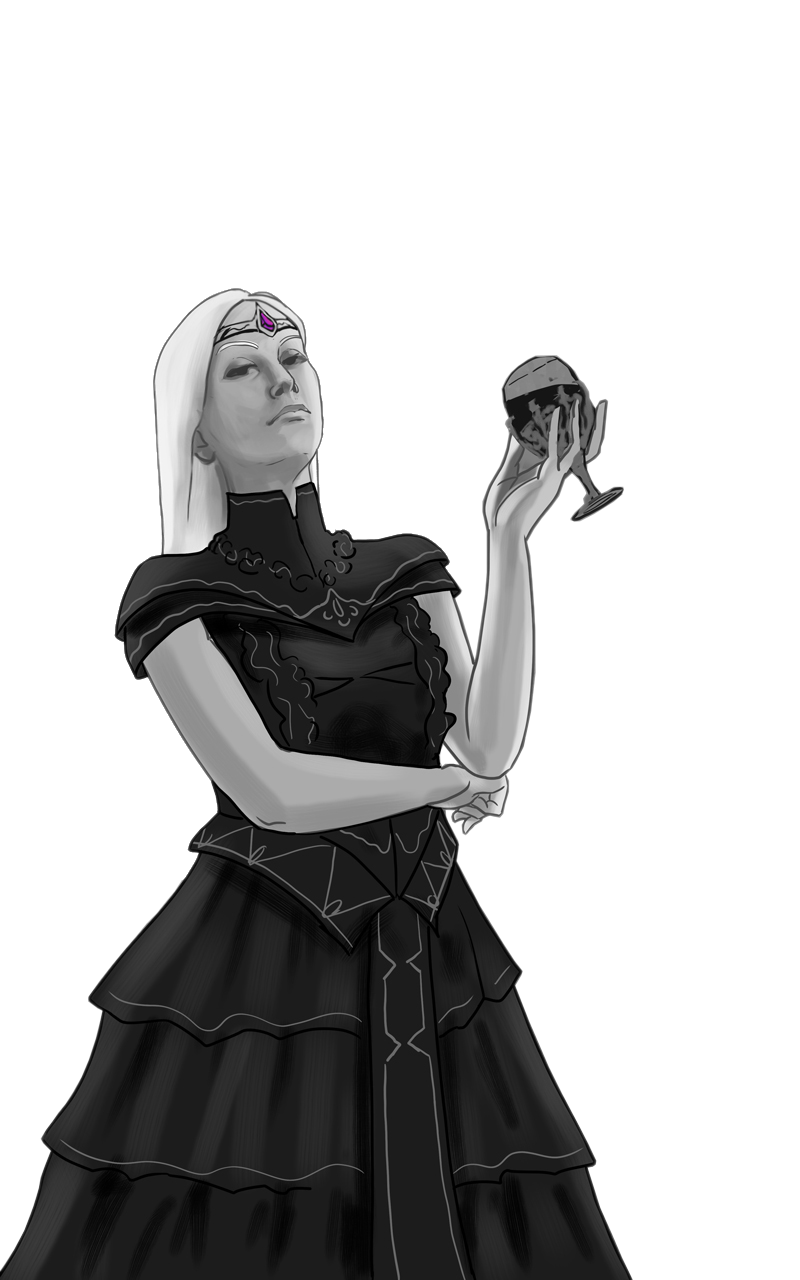
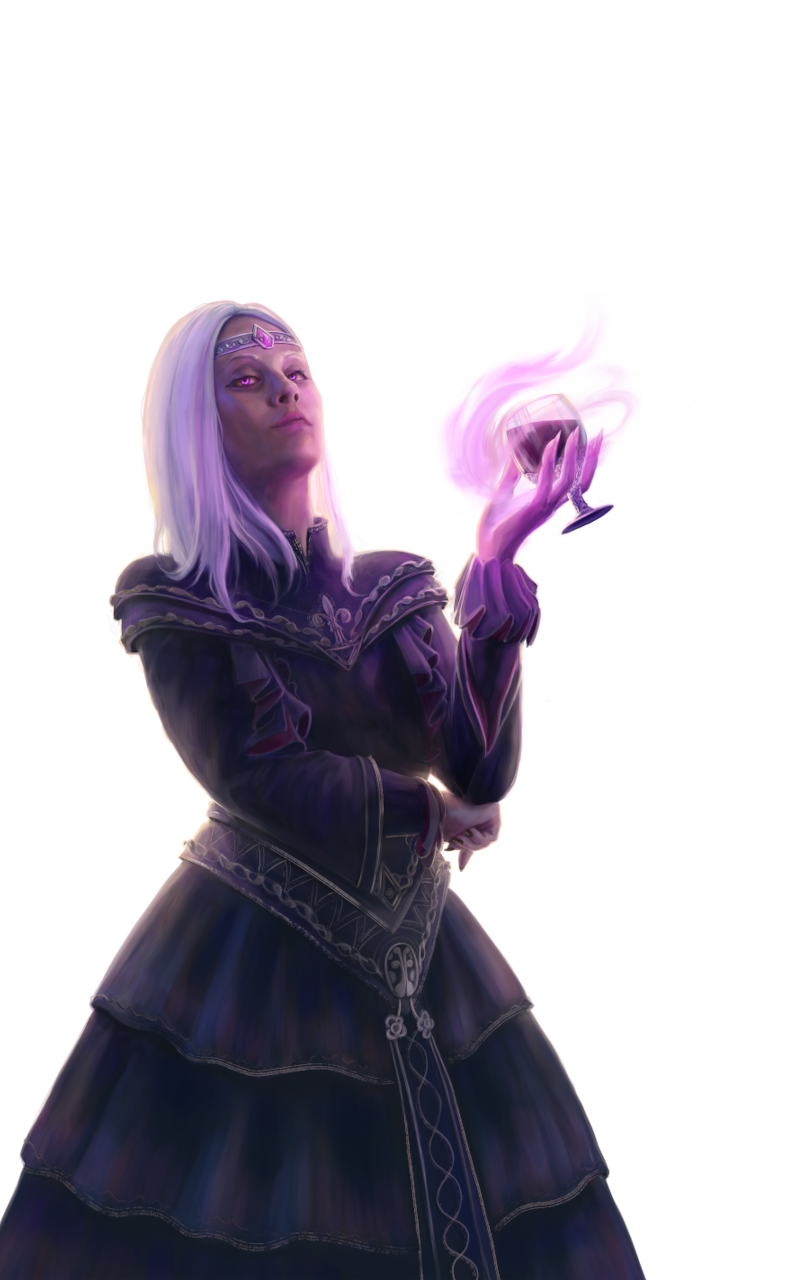
New style

Changed region(s): [[0.0, 0.2188, 0.8125, 1.0]]

diff --git a/src/App.jsx b/src/App.jsx
@@ -1,4 +1,8 @@
 import ladyImage from '/lady.png';
+import smokeL from '/smoke_l.png';
+import smokeR from '/smoke_r.png';
+import corner from '/corner.svg';
+import side from '/side.svg';
 import { NavLink } from "react-router-dom";
 import { createContext, useState } from "react";
 
@@ -12,47 +16,54 @@ function App({children}) {
     return (
         <ThemeContext.Provider value={{secondaryColor, border}}>
             <div className="md:fixed w-screen h-screen md:overflow-hidden">
-                <div className="hidden md:block absolute top-1 left-1 p-2 z-20 text-xs text-center">
-                    <div className="inline-block px-1 text-dark-green" onClick={() => setSecondaryColor('dark-green')}>green</div>
-                    <div className="inline-block px-1 text-dark-blue" onClick={() => setSecondaryColor('dark-blue')}>blue</div>
-                    <div className="inline-block px-1 text-brown" onClick={() => setSecondaryColor('brown')}>brown</div>
-                    <div className="inline-block px-1 text-pink" onClick={() => setSecondaryColor('pink')}>pink</div>
-                    <div className="inline-block px-1 text-dark-silver" onClick={() => setSecondaryColor('dark-silver')}>grey</div>
-                    <div className={`text-silver decoration-3 ${border ? '' : 'line-through'}`} onClick={() => setBorder(!border)}>border</div>
+                <div className="fixed -z-10 bottom-0 left-0 w-screen h-screen bg-noise bg-cover" />
+                <div className="hidden md:block fixed z-10 left-0 bottom-0 opacity-80 animate-float-left pointer-events-none">
+                    <img src={smokeL} />
                 </div>
-                <div className="fixed -z-10 bottom-0 left-0 w-screen h-screen bg-noise bg-cover opacity-70" />
-                <div className="fixed -z-10 bottom-0 left-0 w-screen h-screen bg-gradient bg-cover opacity-70" />
+                <div className="hidden md:block fixed z-10 right-0 bottom-0 opacity-80 animate-float-right pointer-events-none">
+                    <img src={smokeR} />
+                </div>
+                <div className="fixed z-15 bottom-0 left-0 w-screen h-screen bg-gradient bg-cover pointer-events-none       " />
                 <div className="relative px-4 py-16 sm:p-8 md:p-12 lg:p-20 lg:pb-12 h-full mx-auto lg:max-w-[1600px] flex">
                     <div className="hidden md:block md:w-2/5 h-full animate-fade">
                         <div className="absolute max-w-[50vw] max-h-[100vh] bottom-0 md:-left-8 lg:-left-16 brightness-0 blur-xl opacity-30">
                             <img src={ladyImage} />
                         </div>
-                        <div className="absolute max-w-[50vw] max-h-[100vh] bottom-0 md:-left-2 lg:-left-4 grayscale hover:grayscale-0">
+                        <div className="absolute max-w-[50vw] max-h-[100vh] bottom-0 md:-left-2 lg:-left-4">
                             <img src={ladyImage} />
                         </div>
                     </div>
-                    <div className="md:w-3/5 animate-fade flex flex-col">
-                        <div className={`relative inline-block bg-dark-grey text-center text-silver font-serif
+                    <div className="md:w-3/5 animate-fade flex flex-col z-20">
+                        <div className={`relative inline-block bg-dark-grey text-center text-silver font-serif m-6
                                         p-4 sm:p-12 md:p-8 lg:p-12 md:max-h-[70vh] shadow-lg shadow-dark-grey/20
-                                        ${border?`border-2 border-${secondaryColor}`:''}`}>
+                                        ${border?`border-2 border-silver`:''}`}>
                             {border && (
-                                <div className={`absolute -top-2 left-1/2 -ml-2 rotate-45 w-4 h-4 bg-${secondaryColor}`}>&nbsp;</div>
+                                <div className={`absolute -top-2 left-1/2 -ml-2 rotate-45 w-4 h-4 bg-silver`}>&nbsp;</div>
                             )}
+                            <div className="absolute -top-6 -left-6 corner-tl w-6 h-6" />
+                            <div className="absolute -top-6 -right-6 corner-tr w-6 h-6" />
+                            <div className="absolute -bottom-6 -left-6 corner-bl w-6 h-6" />
+                            <div className="absolute -bottom-6 -right-6 corner-br w-6 h-6" />
+                            <div className="absolute top-0 -left-6 bg-left w-6 h-full" />
+                            <div className="absolute -top-6 left-0 bg-top w-full h-6" />
+                            <div className="absolute top-0 -right-6 bg-right w-6 h-full" />
+                            <div className="absolute -bottom-6 left-0 bg-bottom w-full h-6" />
+
                             <div className="pb-2 lg:pb-2 text-lg">
                                 <div>
-                                    <div className={`inline-block text-${secondaryColor} px-2 lg:px-5 leading-5 align-text-bottom rotate-180`}>&#10170;</div>
+                                    <div className={`inline-block px-2 lg:px-5 leading-5 align-text-bottom rotate-180`}>&#10170;</div>
                                     <NavLink to="/" className={({ isActive}) => isActive ? `underline decoration-2 2xl:decoration-3 decoration-${secondaryColor}` : ""}>
                                         Home
                                     </NavLink >
-                                    <div className={`inline-block text-${secondaryColor} px-2 lg:px-5`}>&#9866;</div>
+                                    <div className={`inline-block px-2 lg:px-5`}>&#9866;</div>
                                     <NavLink to="/about" className={({ isActive}) => isActive ? `underline decoration-2 2xl:decoration-3 decoration-${secondaryColor}` : ""}>
                                         About
                                     </NavLink >
-                                    <div className={`inline-block text-${secondaryColor} px-2 lg:px-5`}>&#9866;</div>
+                                    <div className={`inline-block px-2 lg:px-5`}>&#9866;</div>
                                     <NavLink to="/contact" className={({ isActive}) => isActive ? `underline decoration-2 2xl:decoration-3 decoration-${secondaryColor}` : ""}>
                                         Contact
                                     </NavLink >
-                                    <div className={`inline-block text-${secondaryColor} px-2 lg:px-5 leading-5 align-text-bottom`}>&#10170;</div>
+                                    <div className={`inline-block px-2 lg:px-5 leading-5 align-text-bottom`}>&#10170;</div>
                                 </div>
                             </div>
                             <div className="h-full overflow-y-auto">

diff --git a/src/Home.jsx b/src/Home.jsx
@@ -1,36 +1,45 @@
 import { useContext } from "react";
 import { ThemeContext } from "./App.jsx";
+import separator from '/separator_1.svg';
+
 
 export default function Home() {
     const {secondaryColor} = useContext(ThemeContext);
 
     return (<>
-        <p className={`font-cursive text-2xl lg:text-3xl 2xl:text-4xl 2xl:pb-4
-                                        underline decoration-2 2xl:decoration-3 decoration-${secondaryColor}`}>
+        <p className={`font-cursive text-2xl lg:text-3xl 2xl:text-4xl 2xl:pb-4`}>
             &nbsp;<span
-            className={`text-${secondaryColor} text-3xl lg:text-4xl 2xl:text-5xl translate-y-1 px-0.5 inline-block`}>C</span>harles
+            className={`text-3xl lg:text-4xl 2xl:text-5xl translate-y-1 px-0.5 inline-block`}>C</span>harles
             R. <span
-            className={`text-${secondaryColor} text-3xl lg:text-4xl 2xl:text-5xl translate-y-1 px-0.5 inline-block`}>B</span>urgundy&nbsp;
+            className={`text-3xl lg:text-4xl 2xl:text-5xl translate-y-1 px-0.5 inline-block`}>B</span>urgundy&nbsp;
         </p>
-        <p className={`text-xl lg:text-2xl 2xl:text-3xl pt-5 font-bold text-${secondaryColor}`}>
+        <p className={`text-xl lg:text-2xl 2xl:text-3xl pt-5 font-bold`}>
             The War of Obsidian and Mist
         </p>
-        <p className="text-3xl lg:text-4xl 2xl:text-5xl pb-8 2xl:pb-12">
+        <p className="text-3xl lg:text-4xl 2xl:text-5xl pb-2">
             The Fracture of Shackles
         </p>
+        <div className="w-full justify-center pb-8 2xl:pb-12">
+        <div className="w-1/2 m-auto">
+            <img src={separator}/>
+        </div>
+        </div>
         <div className="text-justify tracking-wide 2xl:pb-10">
-            <p className={`py-1 first-letter:text-6xl first-letter:text-${secondaryColor} first-letter:font-bold first-letter:float-left first-letter:pr-1 first-letter:-mt-3`}>
+            <p className={`py-1 first-letter:text-6xl first-letter:font-bold first-letter:float-left first-letter:pr-1 first-letter:-mt-3`}>
                 Captured by pirates at sea, Valirian, a young nobleman from the kingdom of Vinmara, is sold into slavery
                 to the empire of Koresh, his people’s sworn enemy. He comes under the service of Alexar, a powerful and
                 influential Koreshian general, whose designs for the young man are as obscure as they are an ill omen.
             </p>
-            <p className={`py-1 first-letter:text-2xl first-letter:text-${secondaryColor} first-letter:font-bold`}>
+            <p className={`py-1 first-letter:text-2xl first-letter:font-bold`}>
                 But war is near, for the Emperor of Koresh, a centuries-old and powerful sorcerer named Tarasmir, plans
                 to unleash his legions to conquer new land. Forced to adapt to a hostile environment, Valirian comes to
                 learn the price he must pay to stay alive. As war takes him far away from home, the young man will be
                 forced to make a choice—one that may cost his own life.
             </p>
-            <p className={`py-1 first-letter:text-2xl first-letter:text-${secondaryColor} first-letter:font-bold`}>
+            <div className="text-center my-2">
+                <div className="inline-block bg-gold px-4 py-2 rounded-lg font-bold text-lg">ACHETER</div>
+            </div>
+            <p className={`py-1 first-letter:text-2xl first-letter:font-bold`}>
                 Fate is a cruel mistress in love with irony. Will Valirian find redemption, or are some doomed to repeat
                 the same mistakes until the very end?
             </p>

diff --git a/tailwind.config.js b/tailwind.config.js
@@ -8,11 +8,12 @@ export default {
         colors: {
             'silver': '#DBDBDB',
             'pink': '#BB2AAF',
-            'brown': '#73493c',
+            'brown': '#0E2929',
+            'gold': '#85652a',
             'dark-silver': '#717171',
-            'dark-purple': '#800020',
+            'dark-purple': '#312851',
             'dark-green': '#008060',
-            'dark-blue': '#253c80',
+            'dark-blue': '#733b73',
             'dark-brown': '#211306',
             'dark-grey': '#1A2024',
         },
@@ -27,12 +28,26 @@ export default {
             },
             animation: {
                 fade: 'fadeIn 1s ease-in-out',
+                'pulse-slow': 'pulse 8s linear infinite',
+                'float-left': 'floatLeft 8s ease-in-out infinite',
+                'float-right': 'floatRight 11s ease-in-out infinite',
+            },
+            zIndex: {
+                '15': '15',
             },
             keyframes: theme => ({
                 fadeIn: {
                     '0%': {opacity: 0},
                     '100%': {opacity: 1},
                 },
+                floatLeft: {
+                    '0%, 100%': { transform: 'translate(-32px, 0)', opacity: 0.75 },
+                    '50%': { transform: 'translate(0px, 22px)', opacity: 0.81 },
+                },
+                floatRight: {
+                    '0%, 100%': { transform: 'translate(26px, 0px)', opacity: 0.81 },
+                    '50%': { transform: 'translate(0px, 50px)', opacity: 0.75 },
+                }
             }),
         }
     },

diff --git a/src/index.css b/src/index.css
@@ -9,3 +9,24 @@
         @apply bg-dark-purple
     }
 }
+
+.corner-tl, .corner-tr, .corner-bl, .corner-br {
+    background-image: url("/corner.svg");
+    background-size: 1.5rem;
+}
+.corner-tr { transform: rotate(90deg); }
+.corner-br { transform: rotate(180deg); }
+.corner-bl { transform: rotate(270deg); }
+
+.bg-left, .bg-right {
+    background-image: url("/side.svg");
+    background-repeat: repeat-y;
+    background-size: 1.5rem 0.375rem;
+}
+.bg-right { transform: rotate(180deg); }
+.bg-top, .bg-bottom {
+    background-image: url("/side_h.svg");
+    background-repeat: repeat-x;
+    background-size: 0.375rem 1.5rem;
+}
+.bg-bottom { transform: rotate(180deg); }
